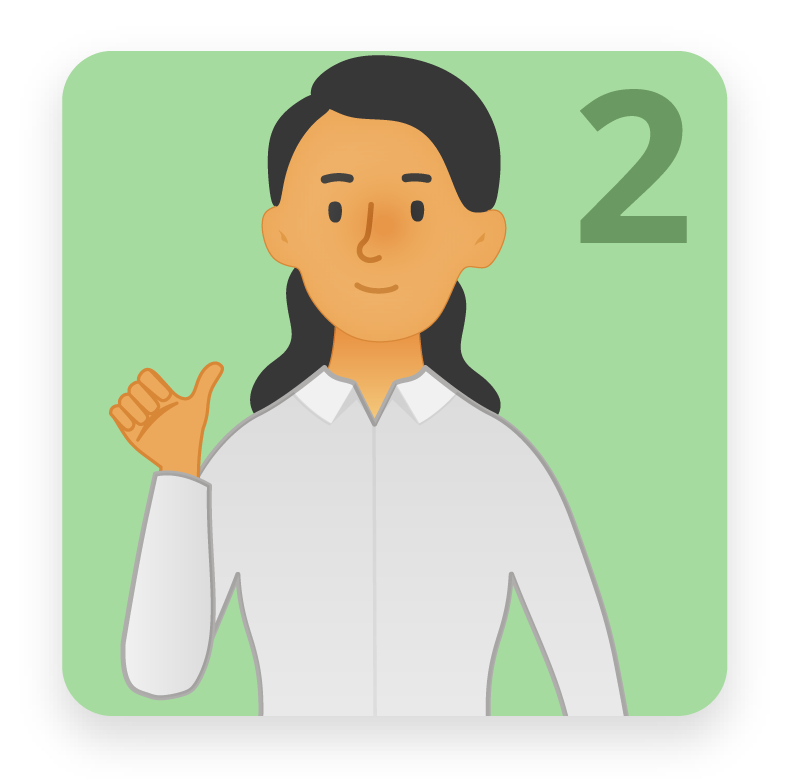
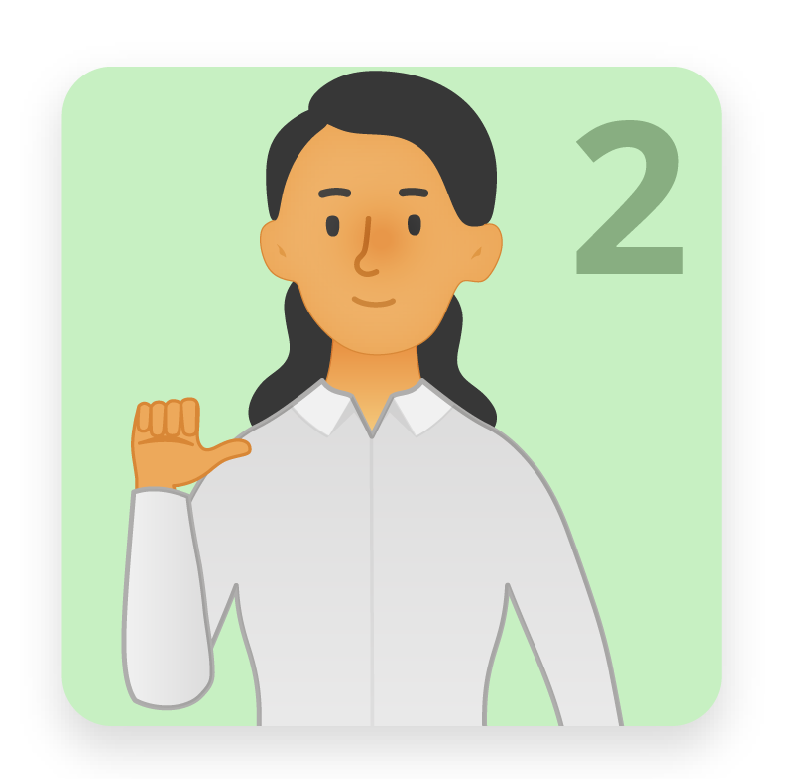
fixed drag and drop/ fixed thumbs

diff --git a/public/style.css b/public/style.css
@@ -3,8 +3,8 @@
     width: 70%;
     background-color: rgba(226, 226, 226, 0.801);
     border: 3px solid rgb(208, 208, 208);
-    flex-grow: 1;
-    overflow: auto;
+    /* flex-grow: 1;
+    overflow: auto; */
     flex-direction: column;
     margin-top: 5vh;
     }
@@ -545,7 +545,7 @@ form {
 
 .navbar-brand {
     color: #323330 !important;
-    font-size: 3vw;
+    font-size: 2vh;
 }
 
 body,html{
